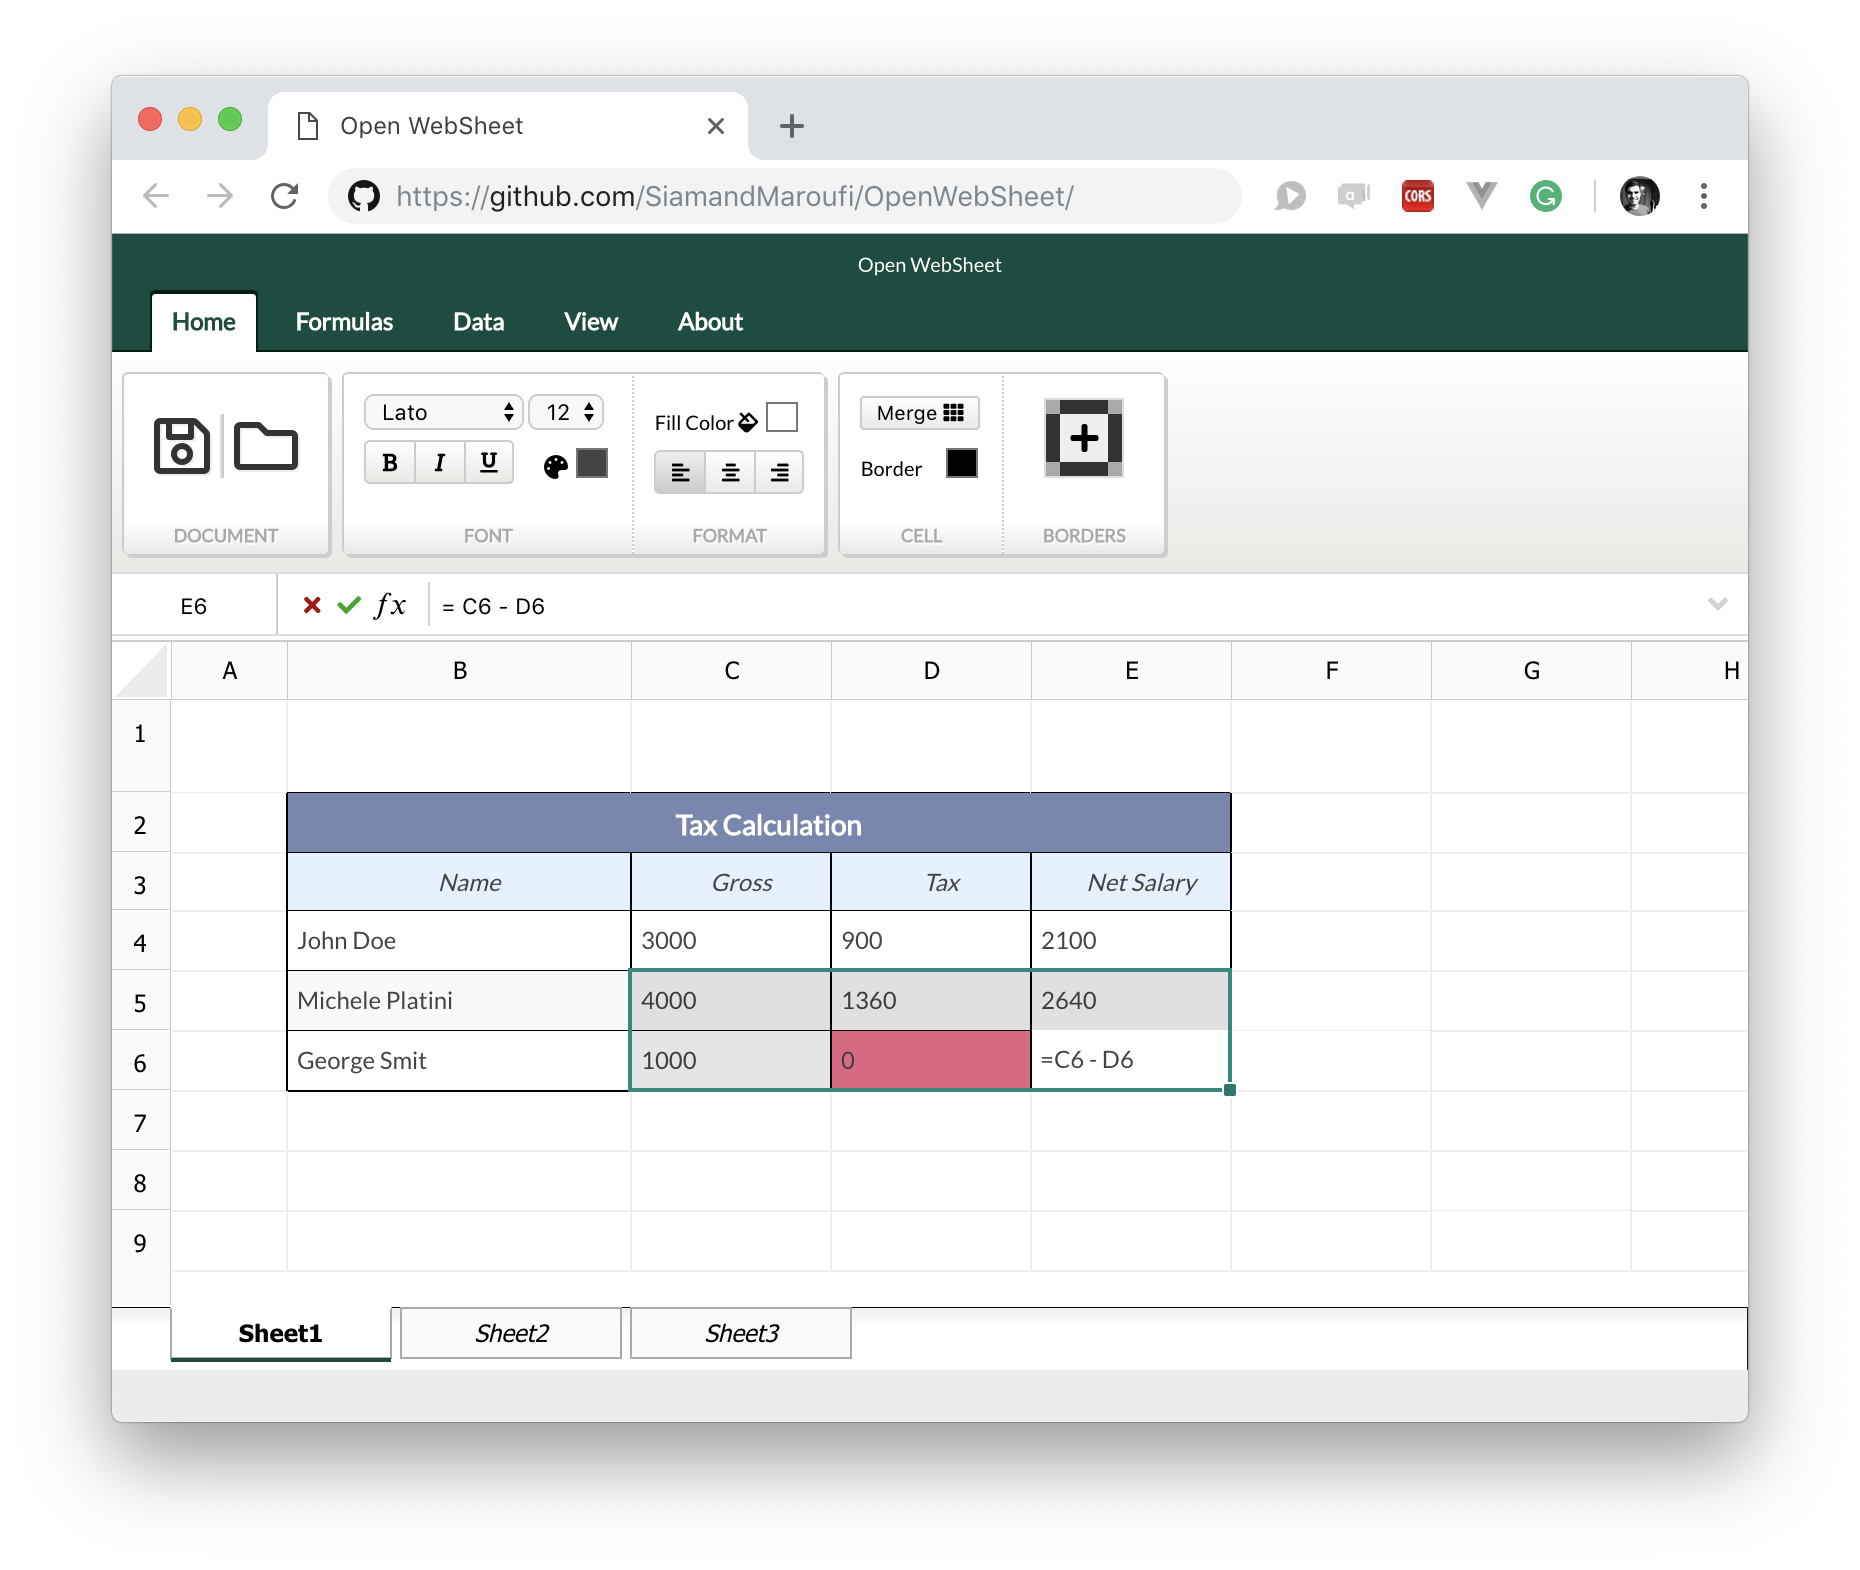
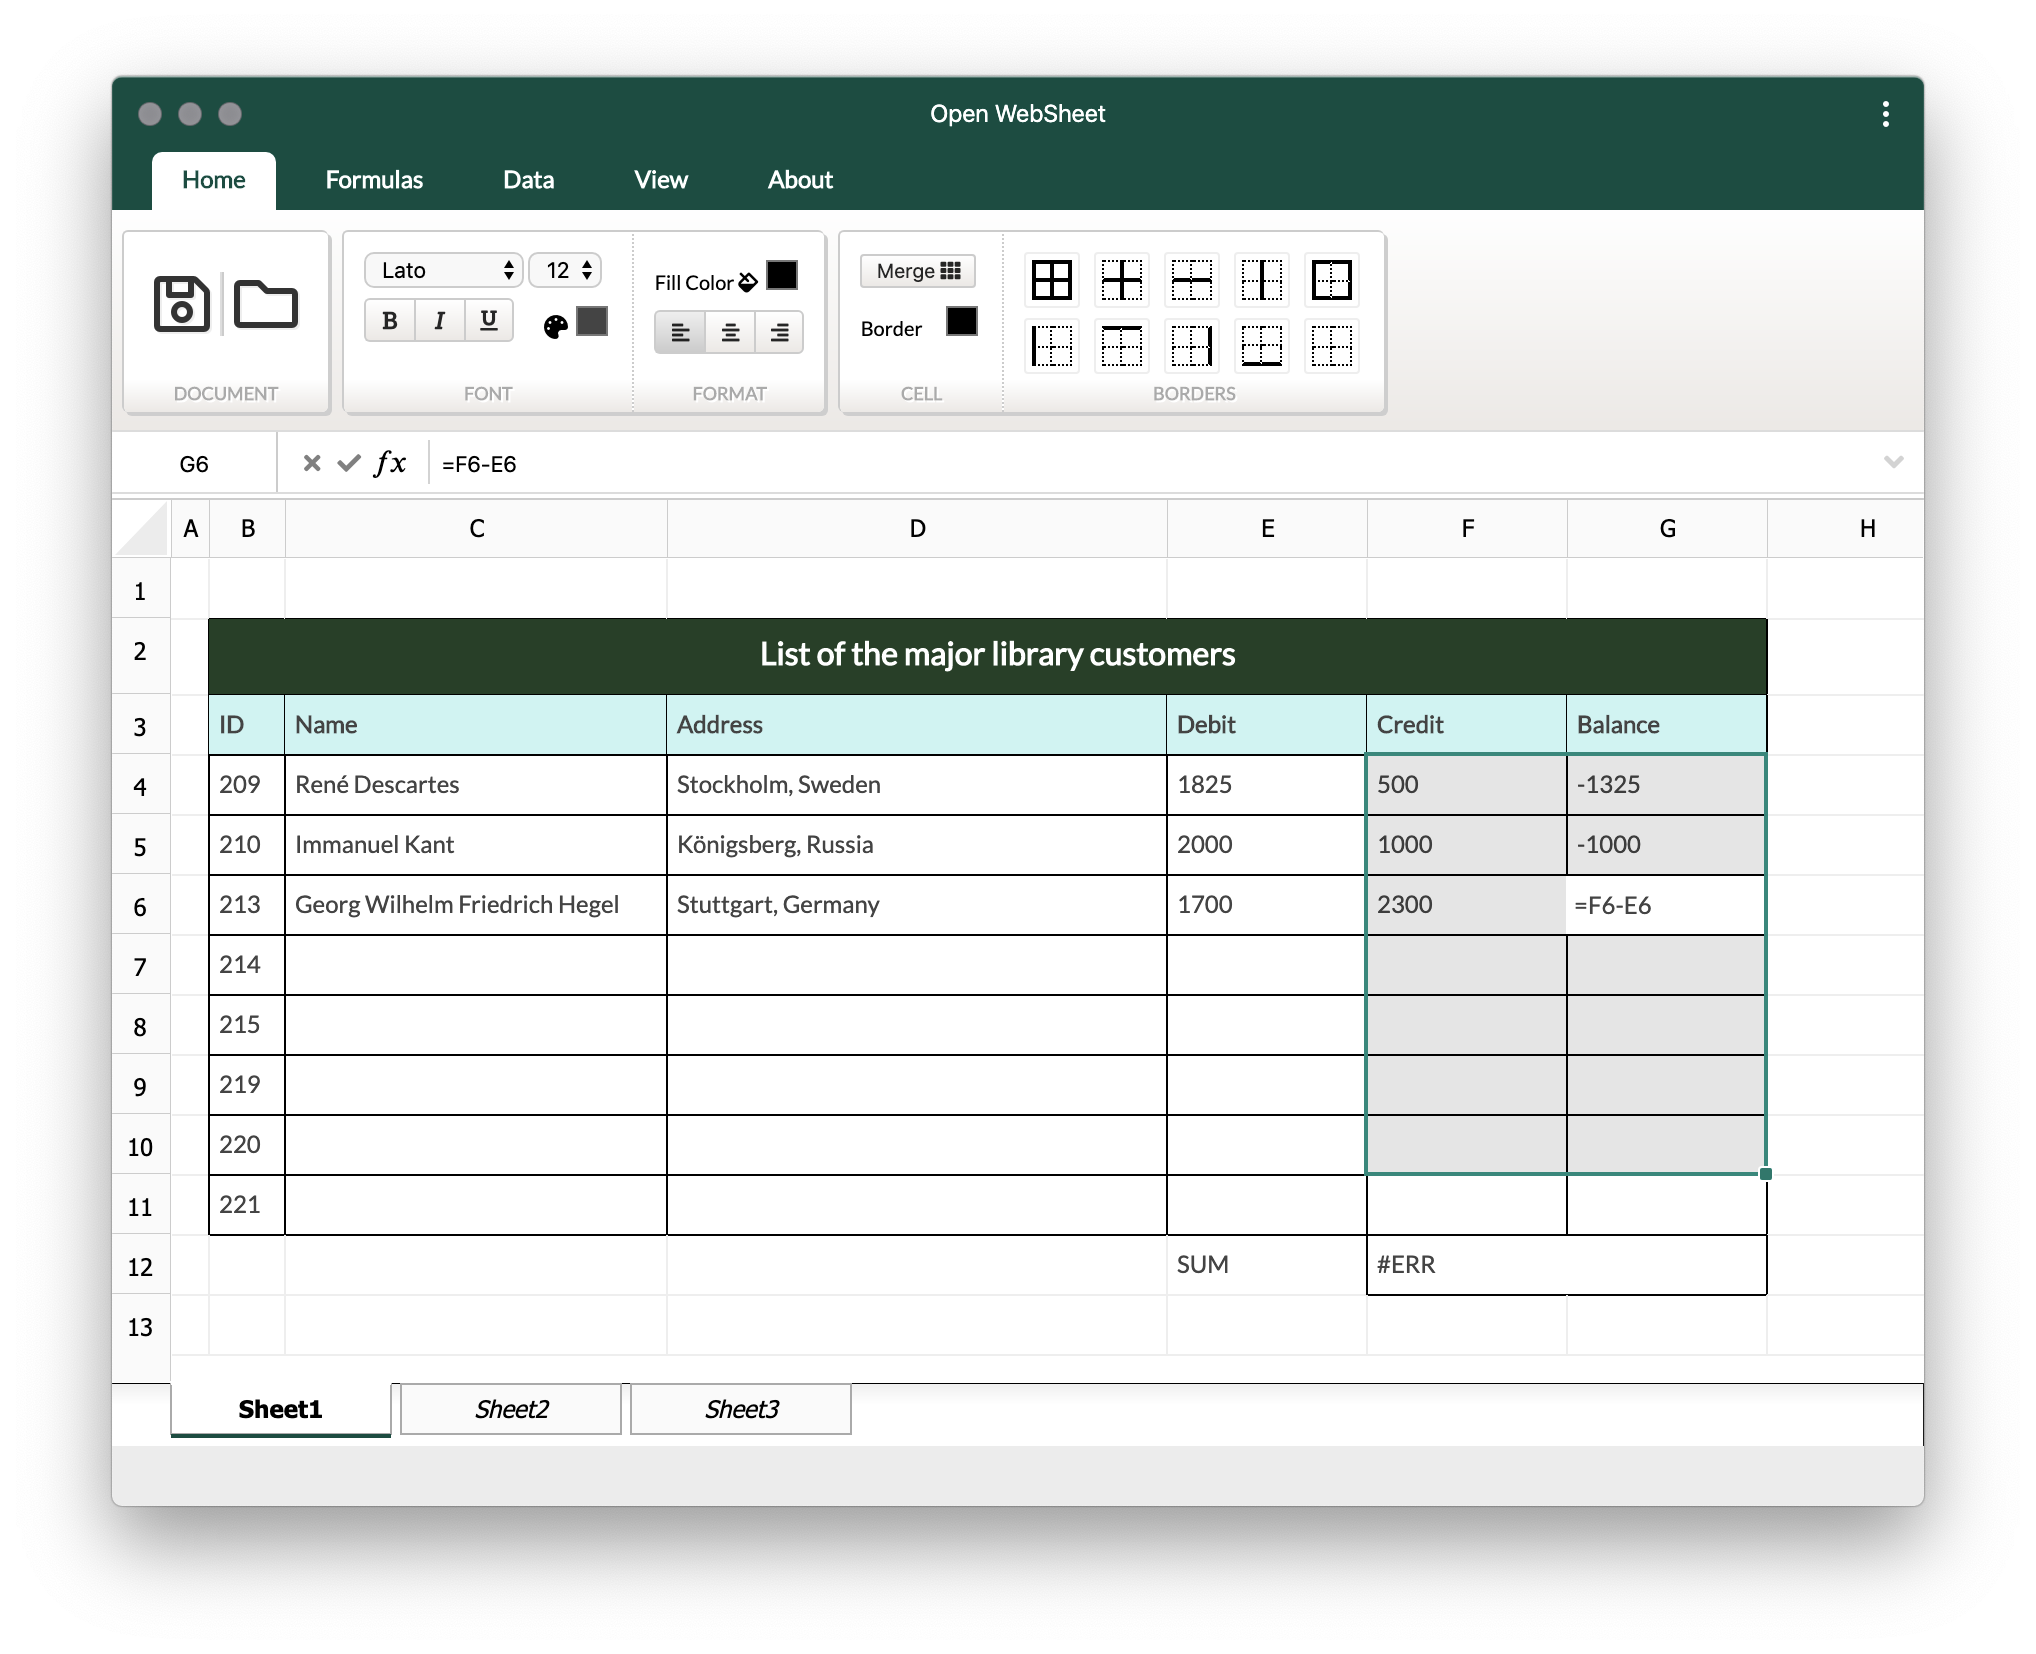
feat: pwa UI upates

diff --git a/docs/index.html b/docs/index.html
@@ -149,14 +149,14 @@
                                 <div class="bottom"></div>
                             </div>
 
-                            <div class="borders horisontal">
+                            <div class="borders horizontal" id="vertical-border-action">
                                 <div class="top"></div>
                                 <div class="right"></div>
                                 <div class="left"></div>
                                 <div class="bottom"></div>
                             </div>
 
-                            <div class="borders vertical">
+                            <div class="borders vertical" id="vertical-border-action">
                                 <div class="top"></div>
                                 <div class="right"></div>
                                 <div class="left"></div>

diff --git a/js/app.ts b/js/app.ts
@@ -26,6 +26,8 @@ $(document).ready(() => {
     $('#top-border-action').click(() => ui.execCmd('top-border',$('#border-color').val()));
     $('#left-border-action').click(() => ui.execCmd('left-border',$('#border-color').val()));
     $('#cross-border-action').click(() => ui.execCmd('cross-border',$('#border-color').val()));
+    $('#horizontal-border-action').click(() => ui.execCmd('horizontal-border',$('#border-color').val()));
+    $('#vertical-border-action').click(() => ui.execCmd('vertical-border',$('#border-color').val()));
     $('#right-border-action').click(() => ui.execCmd('right-border',$('#border-color').val()));
     $('#bottom-border-action').click(() => ui.execCmd('bottom-border',$('#border-color').val()));
     $('#border-grid .all').click(() => ui.execCmd('full-border', $('#border-color').val()));

diff --git a/docs/css/main.css b/docs/css/main.css
@@ -274,8 +274,8 @@ input[type=color] {
     border-top-width:2px;
 }
 
-#border-grid .borders.horisontal .top,
-#border-grid .borders.horisontal .right,
+#border-grid .borders.horizontal .top,
+#border-grid .borders.horizontal .right,
 #border-grid .borders.inside .top,
 #border-grid .borders.inside .right,
 #border-grid .borders.all .top,
